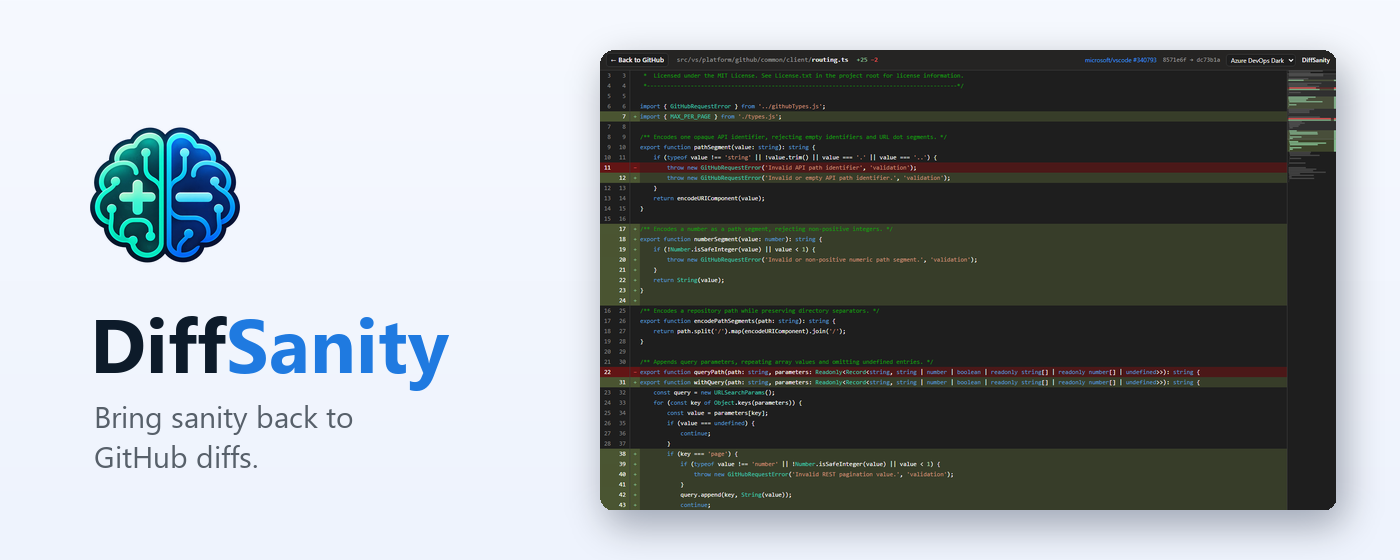
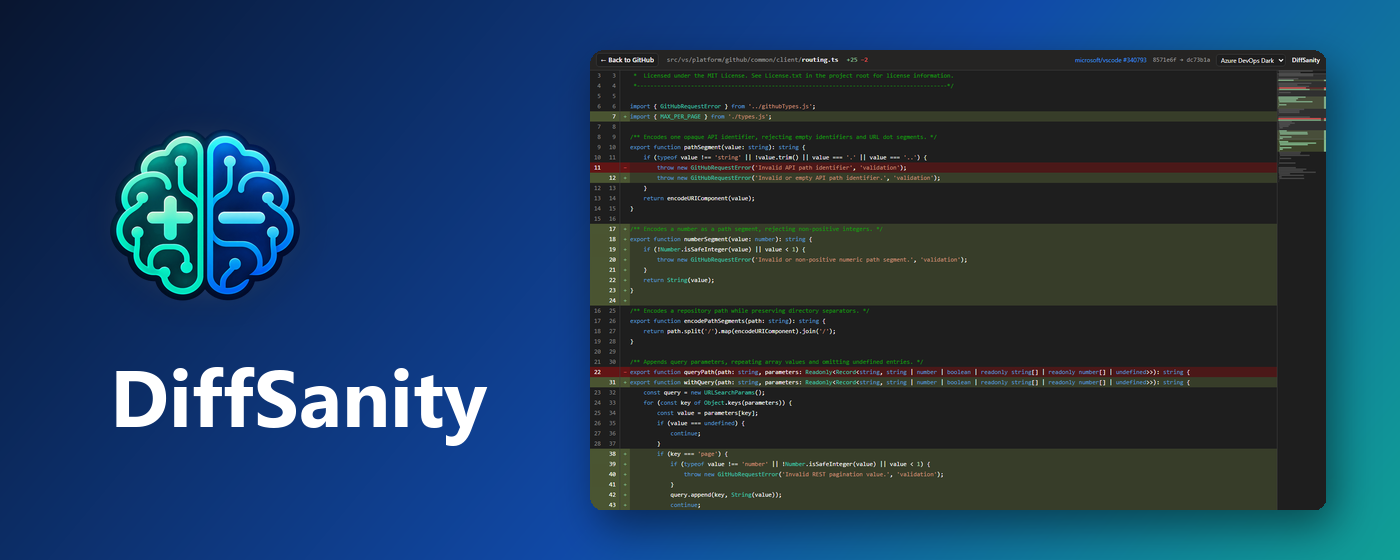
Add a comments screenshot and bolder store promo images
Promo tiles follow the Chrome Web Store guidance: saturated, full-bleed, minimal text.

diff --git a/docs/store/README.md b/docs/store/README.md
@@ -66,7 +66,7 @@ All requests go only to GitHub, from the user's browser, using their existing Gi
 
 | File | Use |
 | --- | --- |
-| `screenshot-1-github.png` … `screenshot-4-*.png` (1280×800) | Screenshots, both stores |
-| `promo-small-440x280.png` | Chrome small promo tile; Edge small promotional tile |
+| `screenshot-1-github.png` … `screenshot-5-comments.png` (1280×800, full bleed) | Screenshots, both stores, in this order |
+| `promo-small-440x280.png` | Chrome small promo tile (required); Edge small promotional tile |
 | `promo-marquee-1400x560.png` | Chrome marquee; Edge large promotional tile (optional) |
 | `logo-300.png` | Edge extension logo (Chrome uses `icons/icon-128.png` from the zip) |
